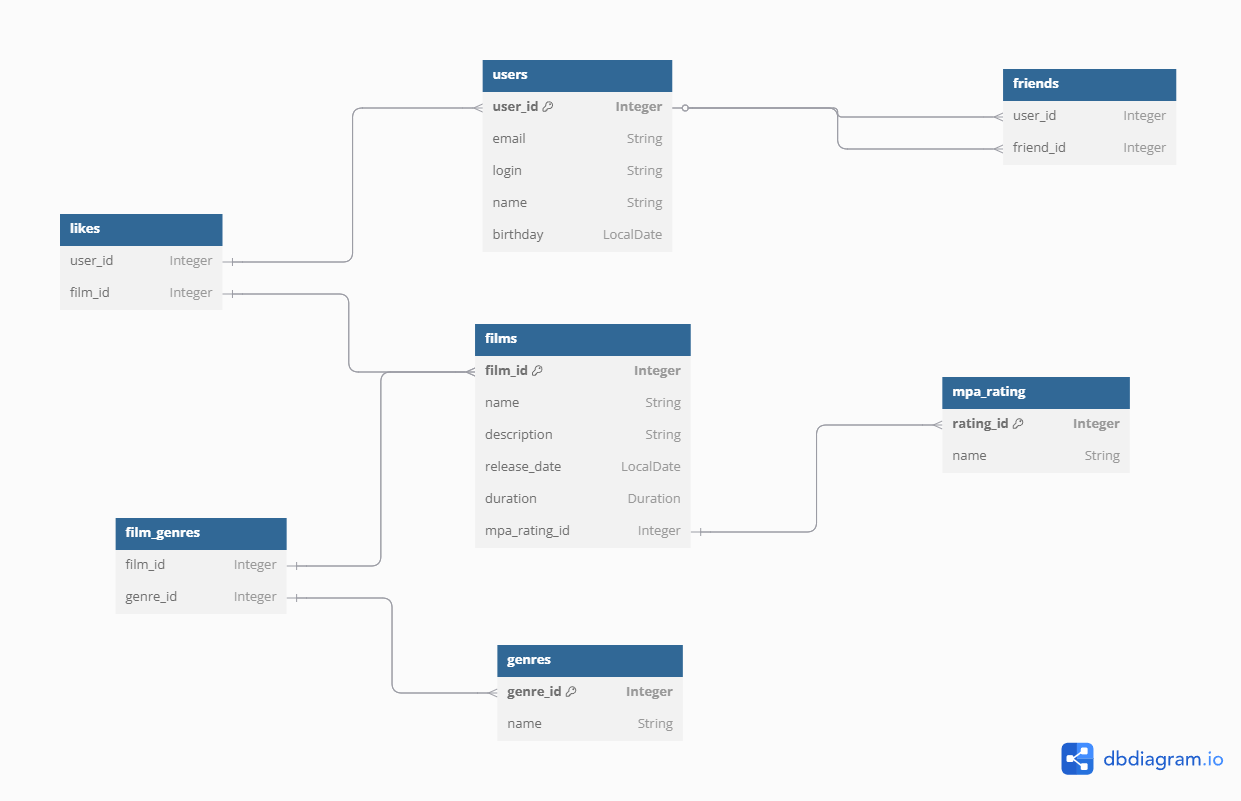
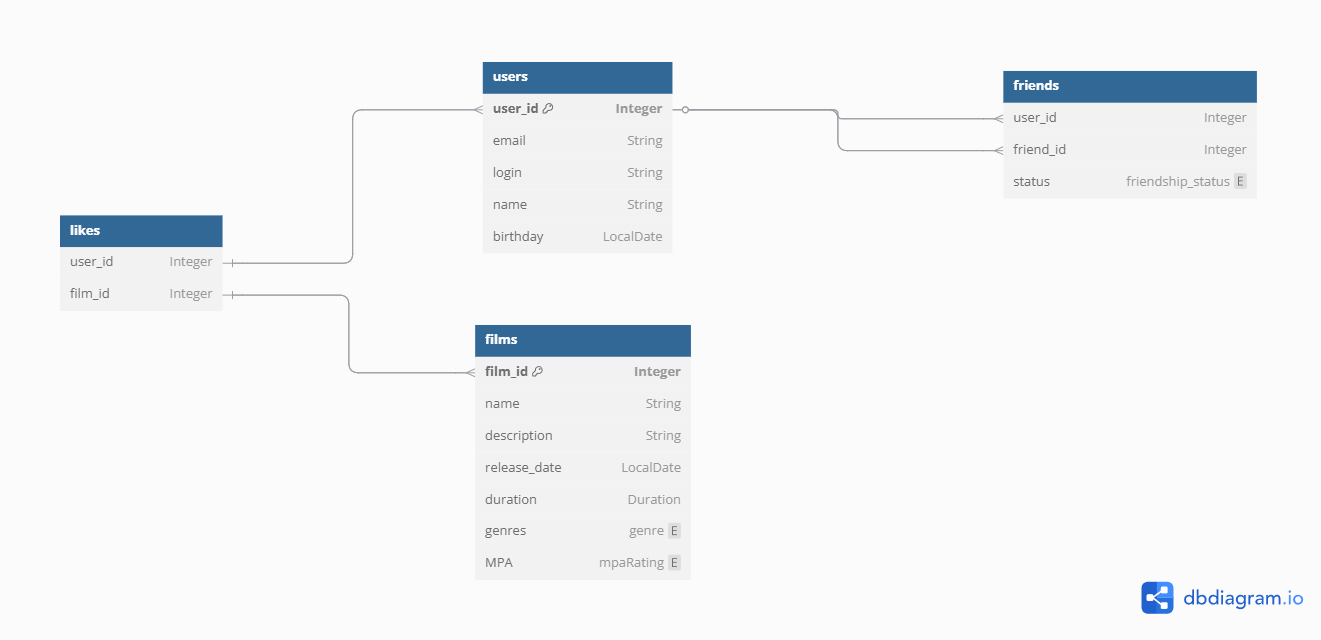
Кажется 11 спринт

diff --git a/src/main/java/ru/yandex/practicum/filmorate/service/UserService.java b/src/main/java/ru/yandex/practicum/filmorate/service/UserService.java
@@ -6,12 +6,11 @@ import org.springframework.stereotype.Service;
 import ru.yandex.practicum.filmorate.exception.ConditionsNotMetException;
 import ru.yandex.practicum.filmorate.exception.NotFoundException;
 import ru.yandex.practicum.filmorate.exception.ResourceNotFoundException;
+import ru.yandex.practicum.filmorate.model.FriendshipStatus;
 import ru.yandex.practicum.filmorate.model.User;
 import ru.yandex.practicum.filmorate.storage.user.UserStorage;
-import java.util.Collection;
-import java.util.HashSet;
-import java.util.Objects;
-import java.util.Set;
+
+import java.util.*;
 import java.util.stream.Collectors;
 
 @Service
@@ -32,16 +31,13 @@ public class UserService {
 
     public Set<User> getFriends(int id) {
         User user = userStorage.getUser(id);
-        if (user == null) {
-            throw new ResourceNotFoundException("Пользователь с id " + id + " не найден");
-        }
 
-        return user.getFriends().stream()
+        return user.getFriends().keySet().stream()
                 .map(userStorage::getUser)
                 .filter(Objects::nonNull)
+                .filter(friend -> friend.getFriends().get(id) == FriendshipStatus.CONFIRMED)
                 .collect(Collectors.toSet());
     }
-
 
     public User createUser(User user) {
         if (user.getName() == null || user.getName().isBlank()) {
@@ -51,10 +47,6 @@ public class UserService {
     }
 
     public User updateUser(User newUser) {
-        if (newUser.getId() == null) {
-            throw new ConditionsNotMetException("Id должен быть указан");
-        }
-
         if (newUser.getName() == null || newUser.getName().isBlank()) {
             newUser.setName(newUser.getLogin());
         }
@@ -62,40 +54,35 @@ public class UserService {
     }
 
     public User getUserById(Integer id) {
-        return userStorage.getUser(id);
+        User user = userStorage.getUser(id);
+        if (user == null) throw new ResourceNotFoundException("Пользователь " + id + " не найден");
+        return user;
     }
 
     public User addFriend(Integer userId, Integer friendId) {
-        User user = userStorage.findAll().stream()
-                .filter(u -> u.getId() == userId)
-                .findFirst()
-                .orElseThrow(() -> new NotFoundException("Пользователь с id " + userId + " не найден"));
+        User user = getUserById(userId);
+        User friend = getUserById(friendId);
 
-        User friend = userStorage.findAll().stream()
-                .filter(u -> u.getId() == friendId)
-                .findFirst()
-                .orElseThrow(() -> new NotFoundException("Пользователь с id " + friendId + " не найден"));
-
-        if (user.getFriends().contains(friendId)) {
-            throw new ConditionsNotMetException("Они уже являются друзьями");
+        if (friend.getFriends().get(userId) == FriendshipStatus.PENDING) {
+            user.getFriends().put(friendId, FriendshipStatus.CONFIRMED);
+            friend.getFriends().put(userId, FriendshipStatus.CONFIRMED);
+            log.info("Пользователи {} и {} теперь друзья (confirmed)", userId, friendId);
         }
 
-        user.getFriends().add(friendId);
-        friend.getFriends().add(userId);
-        log.info("Пользователь с id {} добавил в друзья пользователя с id {}", userId, friendId);
+        else {
+            if (user.getFriends().get(friendId) == FriendshipStatus.PENDING) {
+                throw new ConditionsNotMetException("Запрос уже отправлен");
+            }
+            user.getFriends().put(friendId, FriendshipStatus.PENDING);
+            log.info("Пользователь {} отправил запрос в друзья к {}", userId, friendId);
+        }
+
         return user;
     }
 
     public User deleteFriend(int userId, int friendId) {
-        User user = userStorage.findAll().stream()
-                .filter(u -> u.getId() == userId)
-                .findFirst()
-                .orElseThrow(() -> new NotFoundException("Пользователь с id " + userId + " не найден"));
-
-        User friend = userStorage.findAll().stream()
-                .filter(u -> u.getId() == friendId)
-                .findFirst()
-                .orElseThrow(() -> new NotFoundException("Пользователь с id " + friendId + " не найден"));
+        User user = getUserById(userId);
+        User friend = getUserById(friendId);
 
         user.getFriends().remove(friendId);
         friend.getFriends().remove(userId);
@@ -105,27 +92,19 @@ public class UserService {
     }
 
     public Set<User> getMutualFriends(int userId, int otherUserId) {
-        User user = userStorage.findAll().stream()
-                .filter(u -> u.getId() == userId)
-                .findFirst()
-                .orElseThrow(() -> new NotFoundException("Пользователь с id " + userId + " не найден"));
+        User user = getUserById(userId);
+        User otherUser = getUserById(otherUserId);
 
-        User otherUser = userStorage.findAll().stream()
-                .filter(u -> u.getId() == otherUserId)
-                .findFirst()
-                .orElseThrow(() -> new NotFoundException("Пользователь с id " + otherUserId + " не найден"));
+        Set<User> friendsUser = getFriends(userId);
+        Set<User> friendsOtherUser = getFriends(otherUserId);
 
         Set<User> mutualFriends = new HashSet<>();
-        for (Integer friendId : user.getFriends()) {
-            if (otherUser.getFriends().contains(friendId)) {
-                User friend = userStorage.findAll().stream()
-                        .filter(u -> u.getId() == friendId)
-                        .findFirst()
-                        .orElseThrow(() -> new NotFoundException("Друг с id " + friendId + " не найден"));
+
+        for (User friend : friendsUser) {
+            if (friendsOtherUser.contains(friend)) {
                 mutualFriends.add(friend);
             }
         }
-        log.info("Общие друзья для пользователей с id {} и {}: {}", userId, otherUserId, mutualFriends);
         return mutualFriends;
     }
 }

diff --git a/src/main/java/ru/yandex/practicum/filmorate/model/User.java b/src/main/java/ru/yandex/practicum/filmorate/model/User.java
@@ -2,8 +2,8 @@ package ru.yandex.practicum.filmorate.model;
 
 import lombok.Data;
 import java.time.LocalDate;
-import java.util.HashSet;
-import java.util.Set;
+import java.util.HashMap;
+import java.util.Map;
 import jakarta.validation.constraints.*;
 
 @Data
@@ -11,7 +11,7 @@ public class User {
 
     private Integer id;
 
-    private Set<Integer> friends = new HashSet<>();
+    private Map<Integer, FriendshipStatus> friends = new HashMap<>();
 
     @Pattern(regexp = "^(?!.*\\s).*$", message = "Логин не может содержать пробелы")
     private String login;
@@ -30,7 +30,7 @@ public class User {
 
     public interface Update {}
 
-    public Set<Integer> getFriends() {
+    public Map<Integer, FriendshipStatus> getFriends() {
         return friends;
     }
 }

diff --git a/src/main/java/ru/yandex/practicum/filmorate/model/Film.java b/src/main/java/ru/yandex/practicum/filmorate/model/Film.java
@@ -22,6 +22,10 @@ public class Film {
 
     private Integer id;
 
+    private Set<Genre> genres = new HashSet<>();
+
+    private MpaRating MPA;
+
     private Set<User> likes = new HashSet<>();
 
     @NotBlank(message = "Название не может быть пустым")

diff --git a/src/main/java/ru/yandex/practicum/filmorate/model/Genre.java b/src/main/java/ru/yandex/practicum/filmorate/model/Genre.java
@@ -1,0 +1,10 @@
+package ru.yandex.practicum.filmorate.model;
+
+public enum Genre {
+    COMEDY,
+    DRAMA,
+    ANIMATION,
+    THRILLER,
+    DOCUMENTARY,
+    ACTION
+}

diff --git a/src/main/java/ru/yandex/practicum/filmorate/model/MpaRating.java b/src/main/java/ru/yandex/practicum/filmorate/model/MpaRating.java
@@ -1,0 +1,9 @@
+package ru.yandex.practicum.filmorate.model;
+
+public enum MpaRating {
+    G,
+    PG,
+    PG_13,
+    R,
+    NC_17
+}

diff --git a/src/main/java/ru/yandex/practicum/filmorate/model/FriendshipStatus.java b/src/main/java/ru/yandex/practicum/filmorate/model/FriendshipStatus.java
@@ -1,0 +1,6 @@
+package ru.yandex.practicum.filmorate.model;
+
+public enum FriendshipStatus {
+    PENDING,
+    CONFIRMED
+}

diff --git a/README.md b/README.md
@@ -8,11 +8,67 @@ users — таблица пользователей;
 
 films — фильмы с описанием, датой выхода, длительностью и возрастным рейтингом;
 
-genres и film_genres — жанры и их связь с фильмами (многие ко многим);
-
-mpa_rating — справочник возрастных рейтингов (G, PG и т.д.);
-
 likes — лайки пользователей к фильмам (многие ко многим);
 
 friends — дружеские связи между пользователями.
+
+
+Table friends {
+user_id Integer
+friend_id Integer
+status friendship_status
+}
+
+Enum friendship_status {
+PENDING
+CONFIRMED
+}
+
+Enum mpaRating {
+G
+PG
+PG_13
+R
+NC_17
+}
+
+Enum genre {
+COMEDY
+DRAMA
+ANIMATION
+THRILLER
+DOCUMENTARY
+ACTION
+}
+
+Table users {
+user_id Integer [primary key]
+email String
+login String
+name String
+birthday LocalDate
+}
+
+Table likes {
+user_id Integer
+film_id Integer
+}
+
+Table films {
+film_id Integer [primary key]
+name String
+description String
+release_date LocalDate
+duration Duration
+genres genre
+MPA mpaRating
+}
+
+Ref: likes.user_id < users.user_id
+
+Ref: likes.film_id < films.film_id
+
+Ref: users.user_id < friends.user_id
+
+Ref: users.user_id < friends.friend_id
 
